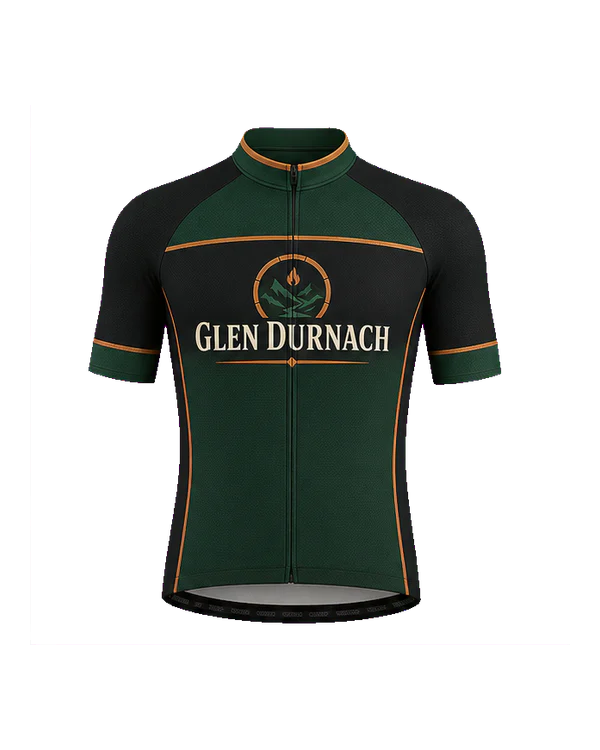
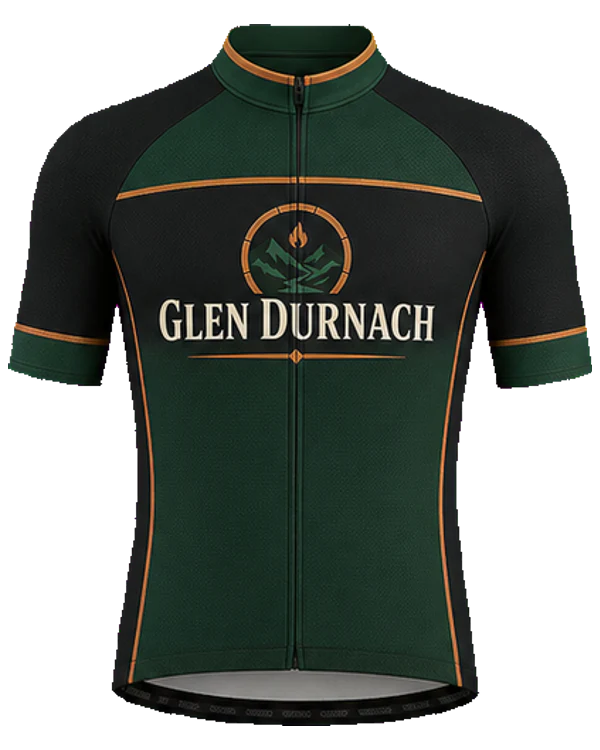
feat: add third country sponsor expansion batch

diff --git a/data/sponsors/country-expansion-batch-03.ts b/data/sponsors/country-expansion-batch-03.ts
@@ -1,0 +1,204 @@
+import type { Sponsor } from "@/types/sponsor";
+
+export const COUNTRY_EXPANSION_BATCH_03_SPONSORS = [
+  {
+    id: "habana-biolab",
+    name: "Habana BioLab",
+    shortName: "Habana BioLab",
+    countryCode: "CU",
+    sector: "Biotechnologies médicales",
+    description:
+      "Une entreprise cubaine de biotechnologies médicales qui développe diagnostics, procédés de laboratoire et solutions de santé destinées aux marchés régionaux.",
+    prestige: 4,
+    minimumReputation: 500,
+    budgetRange: { min: 750_000, max: 1_200_000 },
+    contractDurationRange: { min: 2, max: 3 },
+    logoPath: "/images/sponsors/habana-biolab/logo.webp",
+    jerseys: [
+      { id: "habana-biolab-classic", name: "Clinique", style: "classic", imagePath: "/images/sponsors/habana-biolab/jersey-classic.webp" },
+      { id: "habana-biolab-modern", name: "Synapse", style: "modern", imagePath: "/images/sponsors/habana-biolab/jersey-modern.webp" },
+      { id: "habana-biolab-bold", name: "Célula", style: "bold", imagePath: "/images/sponsors/habana-biolab/jersey-bold.webp" },
+    ],
+    colors: { primary: "#102A56", secondary: "#20B8C5", accent: "#F0644B", background: "#F7F5EE", text: "#102A56" },
+  },
+  {
+    id: "tadjoura-transit",
+    name: "Tadjoura Transit",
+    shortName: "Tadjoura Transit",
+    countryCode: "DJ",
+    sector: "Logistique portuaire",
+    description:
+      "Un logisticien djiboutien qui organise transit portuaire, corridors terrestres et services de fret autour du golfe de Tadjoura.",
+    prestige: 3,
+    minimumReputation: 100,
+    budgetRange: { min: 390_000, max: 650_000 },
+    contractDurationRange: { min: 1, max: 2 },
+    logoPath: "/images/sponsors/tadjoura-transit/logo.webp",
+    jerseys: [
+      { id: "tadjoura-transit-classic", name: "Terminal", style: "classic", imagePath: "/images/sponsors/tadjoura-transit/jersey-classic.webp" },
+      { id: "tadjoura-transit-modern", name: "Corridor", style: "modern", imagePath: "/images/sponsors/tadjoura-transit/jersey-modern.webp" },
+      { id: "tadjoura-transit-bold", name: "Détroit", style: "bold", imagePath: "/images/sponsors/tadjoura-transit/jersey-bold.webp" },
+    ],
+    colors: { primary: "#0B3B68", secondary: "#E7C58D", accent: "#F0644B", background: "#FBF7EE", text: "#0B3B68" },
+  },
+  {
+    id: "delta-looms",
+    name: "Delta Looms",
+    shortName: "Delta Looms",
+    countryCode: "EG",
+    sector: "Coton et textile",
+    description:
+      "Un industriel égyptien qui transforme le coton en textiles techniques et associe filature moderne, tissage et savoir-faire du delta du Nil.",
+    prestige: 3,
+    minimumReputation: 100,
+    budgetRange: { min: 420_000, max: 700_000 },
+    contractDurationRange: { min: 1, max: 2 },
+    logoPath: "/images/sponsors/delta-looms/logo.webp",
+    jerseys: [
+      { id: "delta-looms-classic", name: "Coton", style: "classic", imagePath: "/images/sponsors/delta-looms/jersey-classic.webp" },
+      { id: "delta-looms-modern", name: "Trame", style: "modern", imagePath: "/images/sponsors/delta-looms/jersey-modern.webp" },
+      { id: "delta-looms-bold", name: "Delta", style: "bold", imagePath: "/images/sponsors/delta-looms/jersey-bold.webp" },
+    ],
+    colors: { primary: "#183A6B", secondary: "#F2E8D3", accent: "#C7653F", background: "#FAF6EC", text: "#183A6B" },
+  },
+  {
+    id: "falaj-water-systems",
+    name: "Falaj Water Systems",
+    shortName: "Falaj",
+    countryCode: "AE",
+    sector: "Gestion et traitement de l’eau",
+    description:
+      "Une entreprise émirienne spécialisée dans le traitement, le stockage et la gestion intelligente de l’eau pour les villes et les industries.",
+    prestige: 5,
+    minimumReputation: 1_000,
+    budgetRange: { min: 1_450_000, max: 2_150_000 },
+    contractDurationRange: { min: 2, max: 3 },
+    logoPath: "/images/sponsors/falaj-water-systems/logo.webp",
+    jerseys: [
+      { id: "falaj-water-systems-classic", name: "Réserve", style: "classic", imagePath: "/images/sponsors/falaj-water-systems/jersey-classic.webp" },
+      { id: "falaj-water-systems-modern", name: "Canal", style: "modern", imagePath: "/images/sponsors/falaj-water-systems/jersey-modern.webp" },
+      { id: "falaj-water-systems-bold", name: "Source", style: "bold", imagePath: "/images/sponsors/falaj-water-systems/jersey-bold.webp" },
+    ],
+    colors: { primary: "#0B2A55", secondary: "#23BED0", accent: "#D8E0E5", background: "#F5FAFC", text: "#0B2A55" },
+  },
+  {
+    id: "esmeraldas-cacao",
+    name: "Esmeraldas Cacao",
+    shortName: "Esmeraldas Cacao",
+    countryCode: "EC",
+    sector: "Cacao et agroforesterie",
+    description:
+      "Une filière équatorienne de cacao qui accompagne producteurs, fermentation et agroforesterie dans la province d’Esmeraldas.",
+    prestige: 2,
+    minimumReputation: 30,
+    budgetRange: { min: 200_000, max: 360_000 },
+    contractDurationRange: { min: 1, max: 2 },
+    logoPath: "/images/sponsors/esmeraldas-cacao/logo.webp",
+    jerseys: [
+      { id: "esmeraldas-cacao-classic", name: "Cabosse", style: "classic", imagePath: "/images/sponsors/esmeraldas-cacao/jersey-classic.webp" },
+      { id: "esmeraldas-cacao-modern", name: "Fermentation", style: "modern", imagePath: "/images/sponsors/esmeraldas-cacao/jersey-modern.webp" },
+      { id: "esmeraldas-cacao-bold", name: "Forêt humide", style: "bold", imagePath: "/images/sponsors/esmeraldas-cacao/jersey-bold.webp" },
+    ],
+    colors: { primary: "#173F2D", secondary: "#5A321F", accent: "#D5A743", background: "#FBF4E5", text: "#173F2D" },
+  },
+  {
+    id: "massawa-saltworks",
+    name: "Massawa Saltworks",
+    shortName: "Massawa",
+    countryCode: "ER",
+    sector: "Sel marin et minéraux",
+    description:
+      "Une entreprise érythréenne qui valorise sel marin et minéraux issus des salines côtières autour de Massaoua.",
+    prestige: 1,
+    minimumReputation: 0,
+    budgetRange: { min: 95_000, max: 175_000 },
+    contractDurationRange: { min: 1, max: 2 },
+    logoPath: "/images/sponsors/massawa-saltworks/logo.webp",
+    jerseys: [
+      { id: "massawa-saltworks-classic", name: "Saline", style: "classic", imagePath: "/images/sponsors/massawa-saltworks/jersey-classic.webp" },
+      { id: "massawa-saltworks-modern", name: "Cristal", style: "modern", imagePath: "/images/sponsors/massawa-saltworks/jersey-modern.webp" },
+      { id: "massawa-saltworks-bold", name: "Mer Rouge", style: "bold", imagePath: "/images/sponsors/massawa-saltworks/jersey-bold.webp" },
+    ],
+    colors: { primary: "#30343A", secondary: "#C7E8EC", accent: "#B94A32", background: "#F8FAF8", text: "#30343A" },
+  },
+  {
+    id: "lusutfu-cane",
+    name: "Lusutfu Cane",
+    shortName: "Lusutfu Cane",
+    countryCode: "SZ",
+    sector: "Canne à sucre et alimentation",
+    description:
+      "Une entreprise d’Eswatini qui cultive et transforme la canne à sucre en s’appuyant sur les terres agricoles de la vallée du Lusutfu.",
+    prestige: 2,
+    minimumReputation: 30,
+    budgetRange: { min: 180_000, max: 330_000 },
+    contractDurationRange: { min: 1, max: 2 },
+    logoPath: "/images/sponsors/lusutfu-cane/logo.webp",
+    jerseys: [
+      { id: "lusutfu-cane-classic", name: "Canne", style: "classic", imagePath: "/images/sponsors/lusutfu-cane/jersey-classic.webp" },
+      { id: "lusutfu-cane-modern", name: "Sillon", style: "modern", imagePath: "/images/sponsors/lusutfu-cane/jersey-modern.webp" },
+      { id: "lusutfu-cane-bold", name: "Récolte", style: "bold", imagePath: "/images/sponsors/lusutfu-cane/jersey-bold.webp" },
+    ],
+    colors: { primary: "#12613D", secondary: "#8DBE35", accent: "#E6D7B2", background: "#FBF7E9", text: "#163C2B" },
+  },
+  {
+    id: "ogooue-manganese",
+    name: "Ogooué Manganese",
+    shortName: "Ogooué Manganese",
+    countryCode: "GA",
+    sector: "Manganèse et transformation minière",
+    description:
+      "Un industriel gabonais qui extrait et transforme le manganèse tout en développant ses chaînes logistiques autour du bassin de l’Ogooué.",
+    prestige: 4,
+    minimumReputation: 500,
+    budgetRange: { min: 780_000, max: 1_250_000 },
+    contractDurationRange: { min: 2, max: 3 },
+    logoPath: "/images/sponsors/ogooue-manganese/logo.webp",
+    jerseys: [
+      { id: "ogooue-manganese-classic", name: "Minerai", style: "classic", imagePath: "/images/sponsors/ogooue-manganese/jersey-classic.webp" },
+      { id: "ogooue-manganese-modern", name: "Convoyeur", style: "modern", imagePath: "/images/sponsors/ogooue-manganese/jersey-modern.webp" },
+      { id: "ogooue-manganese-bold", name: "Veine", style: "bold", imagePath: "/images/sponsors/ogooue-manganese/jersey-bold.webp" },
+    ],
+    colors: { primary: "#282D33", secondary: "#E6A21A", accent: "#1559A5", background: "#F5F7F8", text: "#20252A" },
+  },
+  {
+    id: "niumi-groundnut",
+    name: "Niumi Groundnut",
+    shortName: "Niumi",
+    countryCode: "GM",
+    sector: "Coopérative arachidière",
+    description:
+      "Une coopérative gambienne qui structure la production, la transformation et l’exportation d’arachides cultivées près du fleuve.",
+    prestige: 1,
+    minimumReputation: 0,
+    budgetRange: { min: 100_000, max: 185_000 },
+    contractDurationRange: { min: 1, max: 2 },
+    logoPath: "/images/sponsors/niumi-groundnut/logo.webp",
+    jerseys: [
+      { id: "niumi-groundnut-classic", name: "Gousse", style: "classic", imagePath: "/images/sponsors/niumi-groundnut/jersey-classic.webp" },
+      { id: "niumi-groundnut-modern", name: "Rive", style: "modern", imagePath: "/images/sponsors/niumi-groundnut/jersey-modern.webp" },
+      { id: "niumi-groundnut-bold", name: "Récolte", style: "bold", imagePath: "/images/sponsors/niumi-groundnut/jersey-bold.webp" },
+    ],
+    colors: { primary: "#D08A20", secondary: "#2F7036", accent: "#2076A3", background: "#FFF4D9", text: "#4A331D" },
+  },
+  {
+    id: "kentepay",
+    name: "KentePay",
+    shortName: "KentePay",
+    countryCode: "GH",
+    sector: "Paiements numériques",
+    description:
+      "Une fintech ghanéenne qui propose paiements numériques et services marchands à travers une identité inspirée de larges bandes tissées.",
+    prestige: 5,
+    minimumReputation: 1_000,
+    budgetRange: { min: 1_250_000, max: 1_900_000 },
+    contractDurationRange: { min: 2, max: 3 },
+    logoPath: "/images/sponsors/kentepay/logo.webp",
+    jerseys: [
+      { id: "kentepay-classic", name: "Tissage", style: "classic", imagePath: "/images/sponsors/kentepay/jersey-classic.webp" },
+      { id: "kentepay-modern", name: "Transaction", style: "modern", imagePath: "/images/sponsors/kentepay/jersey-modern.webp" },
+      { id: "kentepay-bold", name: "Impulsion", style: "bold", imagePath: "/images/sponsors/kentepay/jersey-bold.webp" },
+    ],
+    colors: { primary: "#0D2A57", secondary: "#E3AE19", accent: "#C43A35", background: "#F8F5E9", text: "#0D2A57" },
+  },
+] satisfies readonly Sponsor[];

diff --git a/data/sponsors/country-expansion-batch-03.test.ts b/data/sponsors/country-expansion-batch-03.test.ts
@@ -1,0 +1,108 @@
+import { describe, expect, it } from "vitest";
+
+import { COUNTRY_EXPANSION_BATCH_03_SPONSORS } from "./country-expansion-batch-03";
+import { SPONSORS } from "./index";
+import { SPIRITS_SPONSORS } from "./spirits";
+
+describe("COUNTRY_EXPANSION_BATCH_03_SPONSORS", () => {
+  it("couvre dix nouveaux pays avec trois maillots par sponsor", () => {
+    expect(COUNTRY_EXPANSION_BATCH_03_SPONSORS).toHaveLength(10);
+    expect(
+      new Set(
+        COUNTRY_EXPANSION_BATCH_03_SPONSORS.map(
+          (sponsor) => sponsor.countryCode,
+        ),
+      ).size,
+    ).toBe(10);
+    expect(
+      COUNTRY_EXPANSION_BATCH_03_SPONSORS.every(
+        (sponsor) => sponsor.jerseys.length === 3,
+      ),
+    ).toBe(true);
+  });
+
+  it("référence des identifiants et assets WebP uniques", () => {
+    const sponsorIds = COUNTRY_EXPANSION_BATCH_03_SPONSORS.map(
+      (sponsor) => sponsor.id,
+    );
+    const jerseyIds = COUNTRY_EXPANSION_BATCH_03_SPONSORS.flatMap(
+      (sponsor) => sponsor.jerseys.map((jersey) => jersey.id),
+    );
+    const assetPaths = COUNTRY_EXPANSION_BATCH_03_SPONSORS.flatMap(
+      (sponsor) => [
+        sponsor.logoPath,
+        ...sponsor.jerseys.map((jersey) => jersey.imagePath),
+      ],
+    );
+
+    expect(new Set(sponsorIds).size).toBe(sponsorIds.length);
+    expect(new Set(jerseyIds).size).toBe(jerseyIds.length);
+    expect(new Set(assetPaths).size).toBe(assetPaths.length);
+    expect(assetPaths.every((assetPath) => assetPath.endsWith(".webp"))).toBe(
+      true,
+    );
+  });
+
+  it("respecte les seuils de réputation et la gamme économique validée", () => {
+    const expectedMinimumReputation = new Map([
+      [1, 0],
+      [2, 30],
+      [3, 100],
+      [4, 500],
+      [5, 1_000],
+    ]);
+
+    expect(
+      new Set(
+        COUNTRY_EXPANSION_BATCH_03_SPONSORS.map(
+          (sponsor) => sponsor.prestige,
+        ),
+      ),
+    ).toEqual(new Set([1, 2, 3, 4, 5]));
+    expect(
+      COUNTRY_EXPANSION_BATCH_03_SPONSORS.every(
+        (sponsor) =>
+          sponsor.minimumReputation ===
+          expectedMinimumReputation.get(sponsor.prestige),
+      ),
+    ).toBe(true);
+    expect(
+      Math.min(
+        ...COUNTRY_EXPANSION_BATCH_03_SPONSORS.map(
+          (sponsor) => sponsor.budgetRange.min,
+        ),
+      ),
+    ).toBe(95_000);
+    expect(
+      Math.max(
+        ...COUNTRY_EXPANSION_BATCH_03_SPONSORS.map(
+          (sponsor) => sponsor.budgetRange.max,
+        ),
+      ),
+    ).toBe(2_150_000);
+  });
+
+  it("est intégré au catalogue global", () => {
+    const catalogIds = new Set(SPONSORS.map((sponsor) => sponsor.id));
+
+    for (const sponsor of COUNTRY_EXPANSION_BATCH_03_SPONSORS) {
+      expect(catalogIds.has(sponsor.id)).toBe(true);
+    }
+  });
+
+  it("utilise les visuels Glen Durnach recadrés en WebP", () => {
+    const glenDurnach = SPIRITS_SPONSORS.find(
+      (sponsor) => sponsor.id === "glen-durnach",
+    );
+
+    expect(glenDurnach).toBeDefined();
+    expect(glenDurnach?.logoPath).toBe(
+      "/images/sponsors/glen-durnach/logo.webp",
+    );
+    expect(
+      glenDurnach?.jerseys.every((jersey) =>
+        jersey.imagePath.endsWith(".webp"),
+      ),
+    ).toBe(true);
+  });
+});

diff --git a/data/sponsors/index.ts b/data/sponsors/index.ts
@@ -10,6 +10,7 @@ import { BRETON_SPONSORS } from "./brittany";
 import { CONFECTIONERY_SPONSORS } from "./confectionery";
 import { COUNTRY_EXPANSION_BATCH_01_SPONSORS } from "./country-expansion-batch-01";
 import { COUNTRY_EXPANSION_BATCH_02_SPONSORS } from "./country-expansion-batch-02";
+import { COUNTRY_EXPANSION_BATCH_03_SPONSORS } from "./country-expansion-batch-03";
 import { CYCLING_PROJECT_SPONSORS } from "./cycling-projects";
 import { ENERGY_SPONSORS } from "./energy";
 import { FAST_FOOD_SPONSORS } from "./fast-food";
@@ -41,6 +42,7 @@ const RAW_SPONSORS = [
   ...JAPANESE_SPONSORS,
   ...COUNTRY_EXPANSION_BATCH_01_SPONSORS,
   ...COUNTRY_EXPANSION_BATCH_02_SPONSORS,
+  ...COUNTRY_EXPANSION_BATCH_03_SPONSORS,
   ...CONFECTIONERY_SPONSORS,
   ...ENERGY_SPONSORS,
   ...BANKING_SPONSORS,
